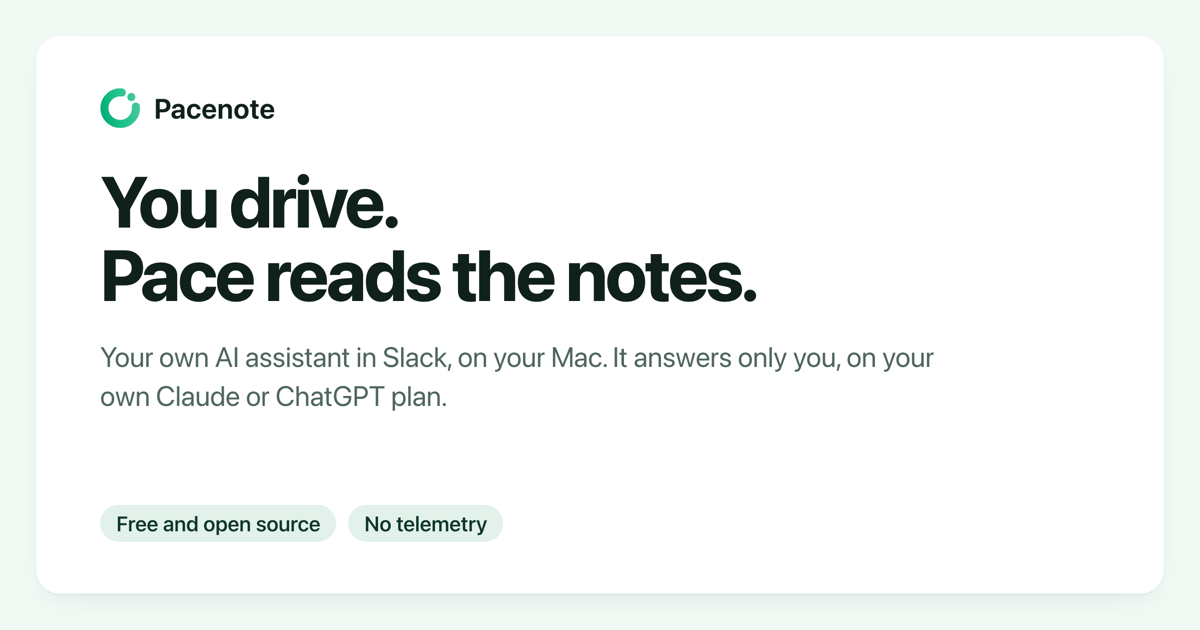
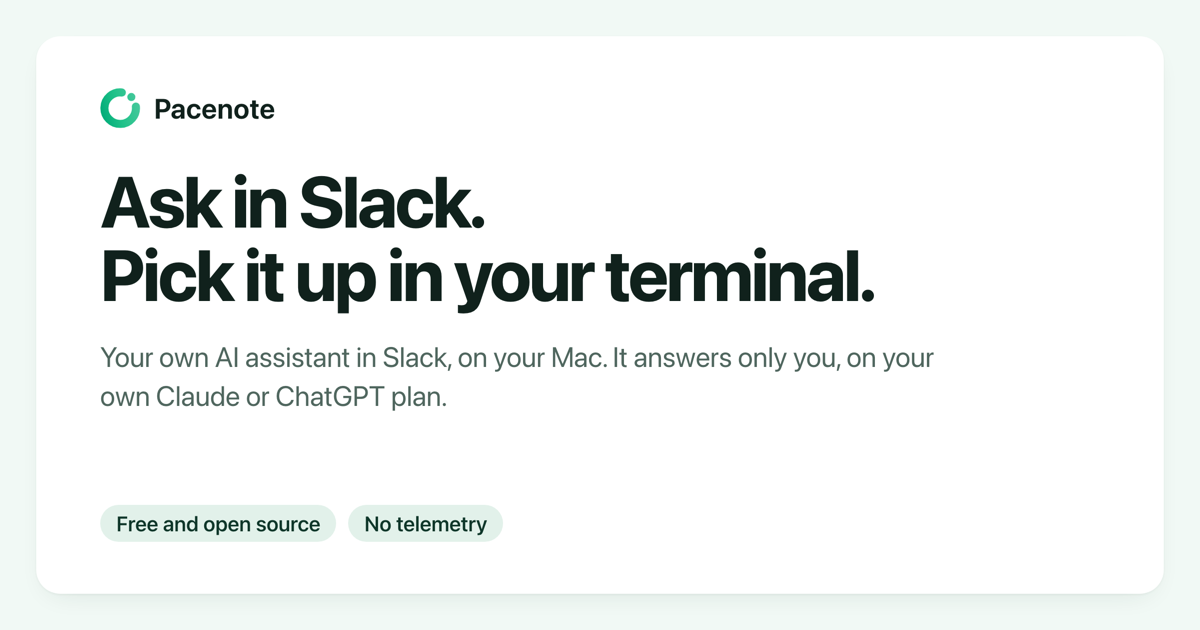
feat(site): say in the headline what Pacenote does
- The headline reads "Ask in Slack. Pick it up in your terminal.": the
  way a task travels from a Slack thread into Claude Code or Codex, which
  the Todo screenshot below it shows, in place of the rally metaphor
- "You drive. Pace reads the notes." closes the note on the name, where
  the co-driver it comes from is explained first
- The link preview card and its alt text carry the same headline

Changed region(s): [[0.1233, 0.3921, 0.74, 0.5127], [0.0617, 0.2714, 0.4008, 0.3619]]

diff --git a/site/index.html b/site/index.html
@@ -25,7 +25,7 @@
   <meta property="og:image" content="https://pacenote.dev/assets/og.png">
   <meta property="og:image:width" content="1200">
   <meta property="og:image:height" content="630">
-  <meta property="og:image:alt" content="Pacenote. You drive. Pace reads the notes. Your own AI assistant in Slack, on your Mac.">
+  <meta property="og:image:alt" content="Pacenote. Ask in Slack. Pick it up in your terminal. Your own AI assistant in Slack, on your Mac.">
   <meta name="twitter:card" content="summary_large_image">
   <link rel="icon" type="image/svg+xml" href="media/pacenote-mark.svg">
   <link rel="stylesheet" href="style.css">
@@ -52,7 +52,7 @@
   <main id="main">
     <section class="hero" id="top">
       <a class="release" id="release-link" href="https://github.com/Ashon/pacenote/releases/latest">What's new in v0.5.25</a>
-      <h1>You drive.<br>Pace reads the notes.</h1>
+      <h1>Ask in Slack.<br>Pick it up in your terminal.</h1>
       <p class="lede">Pacenote is a free Mac app. Its assistant, Pace, answers your Slack mentions with your own Claude
         Code or Codex login, lists what people asked of you, and hands each task, with its history, to the terminal
         session that does the work.</p>
@@ -90,7 +90,7 @@
             paste the thread again, explain it again, and hunt for where you stopped. Pacenote keeps each task's history
             together on your Mac, whichever tool did the work.</p>
           <p class="aside">Why the name: in rallying, the co-driver reads the pace notes so the driver can keep their
-            eyes on the road. Pace does that for your work.</p>
+            eyes on the road. You drive. Pace reads the notes.</p>
         </div>
 
         <ol class="track" aria-label="A task, from the ask to how it ended">

diff --git a/site/assets/og-source.html b/site/assets/og-source.html
@@ -60,7 +60,7 @@
 <body>
   <div class="card">
     <div class="brand"><img src="../../assets/pacenote-mark.svg" alt="">Pacenote</div>
-    <h1>You drive.<br>Pace reads the notes.</h1>
+    <h1>Ask in Slack.<br>Pick it up in your terminal.</h1>
     <p>Your own AI assistant in Slack, on your Mac. It answers only you, on your own Claude or ChatGPT plan.</p>
     <div class="facts"><span>Free and open source</span><span>No telemetry</span></div>
   </div>

diff --git a/site/style.css b/site/style.css
@@ -196,11 +196,10 @@ code {
 }
 .hero h1 {
   margin: 0;
-  font-size: clamp(2.75rem, 7.4vw, 5.25rem);
-  line-height: 1.02;
+  font-size: clamp(2.5rem, 6.2vw, 4.5rem);
+  line-height: 1.04;
   letter-spacing: -0.035em;
   font-weight: 750;
-  max-width: 14ch;
 }
 .release {
   display: inline-flex;
